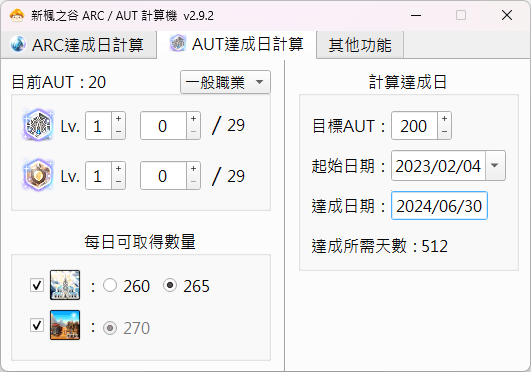
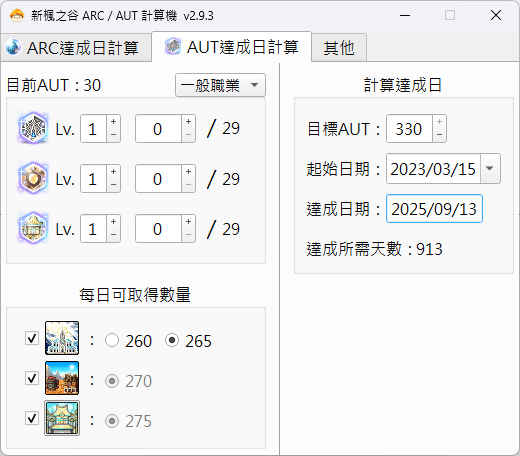
v2.9.3

diff --git a/README.md b/README.md
@@ -3,7 +3,7 @@
 
 [![Codacy Badge](https://app.codacy.com/project/badge/Grade/020d720a719a400082f1ef7b1d1aa39e)](https://www.codacy.com/gh/WhatTheBlock/MapleStory-ARC-Calculator/dashboard?utm_source=github.com&amp;utm_medium=referral&amp;utm_content=WhatTheBlock/MapleStory-ARC-Calculator&amp;utm_campaign=Badge_Grade)
 
-### 適用的遊戲版本為 TMS v249
+### 適用的遊戲版本為 TMS v250
 
 - 巴哈姆特詳細介紹文章：[點我](https://forum.gamer.com.tw/C.php?bsn=7650&snA=1000541) <br><br>
 
@@ -18,6 +18,14 @@
 
 ### Changelog：
 ----
+
+#### v2.9.3
+- 新增奧迪溫AUT達成日計算
+- 新增奧迪溫AUT升級楓幣計算
+- 調整視窗大小
+- 調整部分快捷鍵設定
+- 修正視窗縮放的錯誤
+- 修正部分Icon模糊的問題
 
 #### v2.9.2
 - 修正270 AUT升級楓幣的錯誤
